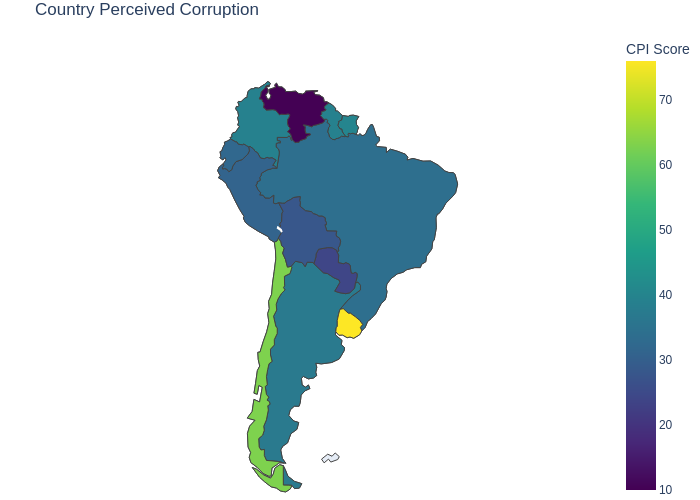
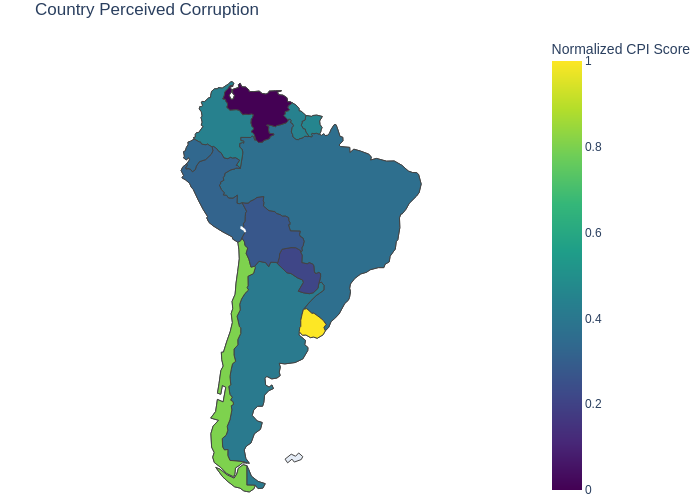
normalize vals

Changed region(s): [[0.24, 0.15, 0.66, 0.99], [0.78, 0.09, 0.96, 0.99], [0.96, 0.09, 0.99, 0.12]]

diff --git a/mapping/main.py b/mapping/main.py
@@ -33,6 +33,11 @@ data = sa_corruption.join(sa_fdi)
 data = data.sort_values(by="FDI_2023", ascending=False)
 print(data)
 
+# Normalize the CPI score to be between 0 and 1
+data["CPI_2024"] = (data["CPI_2024"] - data["CPI_2024"].min()) / (data["CPI_2024"].max() - data["CPI_2024"].min())
+# Normalize the FDI score to be between 0 and 1
+data["FDI_2023"] = (data["FDI_2023"] - data["FDI_2023"].min()) / (data["FDI_2023"].max() - data["FDI_2023"].min())
+
 # Create choropleth map
 data = data.reset_index().rename(columns={"index": "country"})
 fig = px.choropleth(
@@ -55,7 +60,7 @@ fig.update_geos(
 # Reduce layout margins to remove extra space
 fig.update_layout(
     margin={"r":0, "t":30, "l":0, "b":0},  # Remove excess margins
-    coloraxis_colorbar=dict(title="CPI Score")  # Adjust color legend title
+    coloraxis_colorbar=dict(title="Normalized CPI Score")  # Adjust color legend title
 )
 fig.write_image("/home/js/econ-hist/mapping/corruption_map.png")
 
@@ -81,6 +86,6 @@ fig_two.update_geos(
 # Reduce layout margins to remove extra space
 fig_two.update_layout(
     margin={"r":0, "t":30, "l":0, "b":0},  # Remove excess margins
-    coloraxis_colorbar=dict(title="Net FDI")  # Adjust color legend title
+    coloraxis_colorbar=dict(title="Normalized Net FDI")  # Adjust color legend title
 )
 fig_two.write_image("/home/js/econ-hist/mapping/fdi_map.png")
